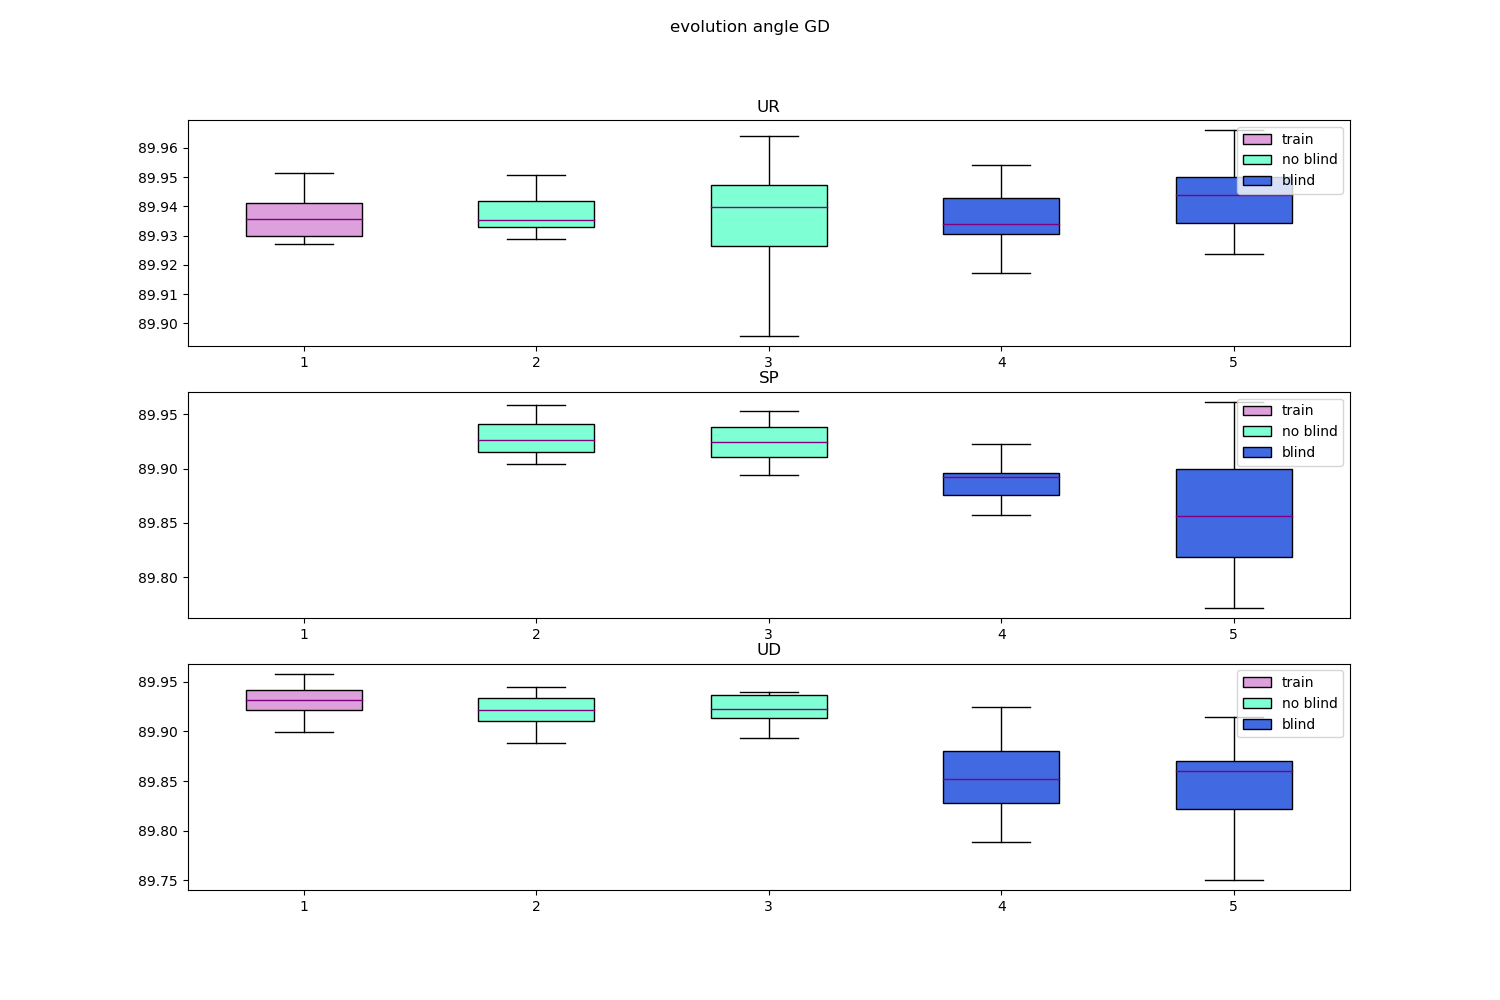
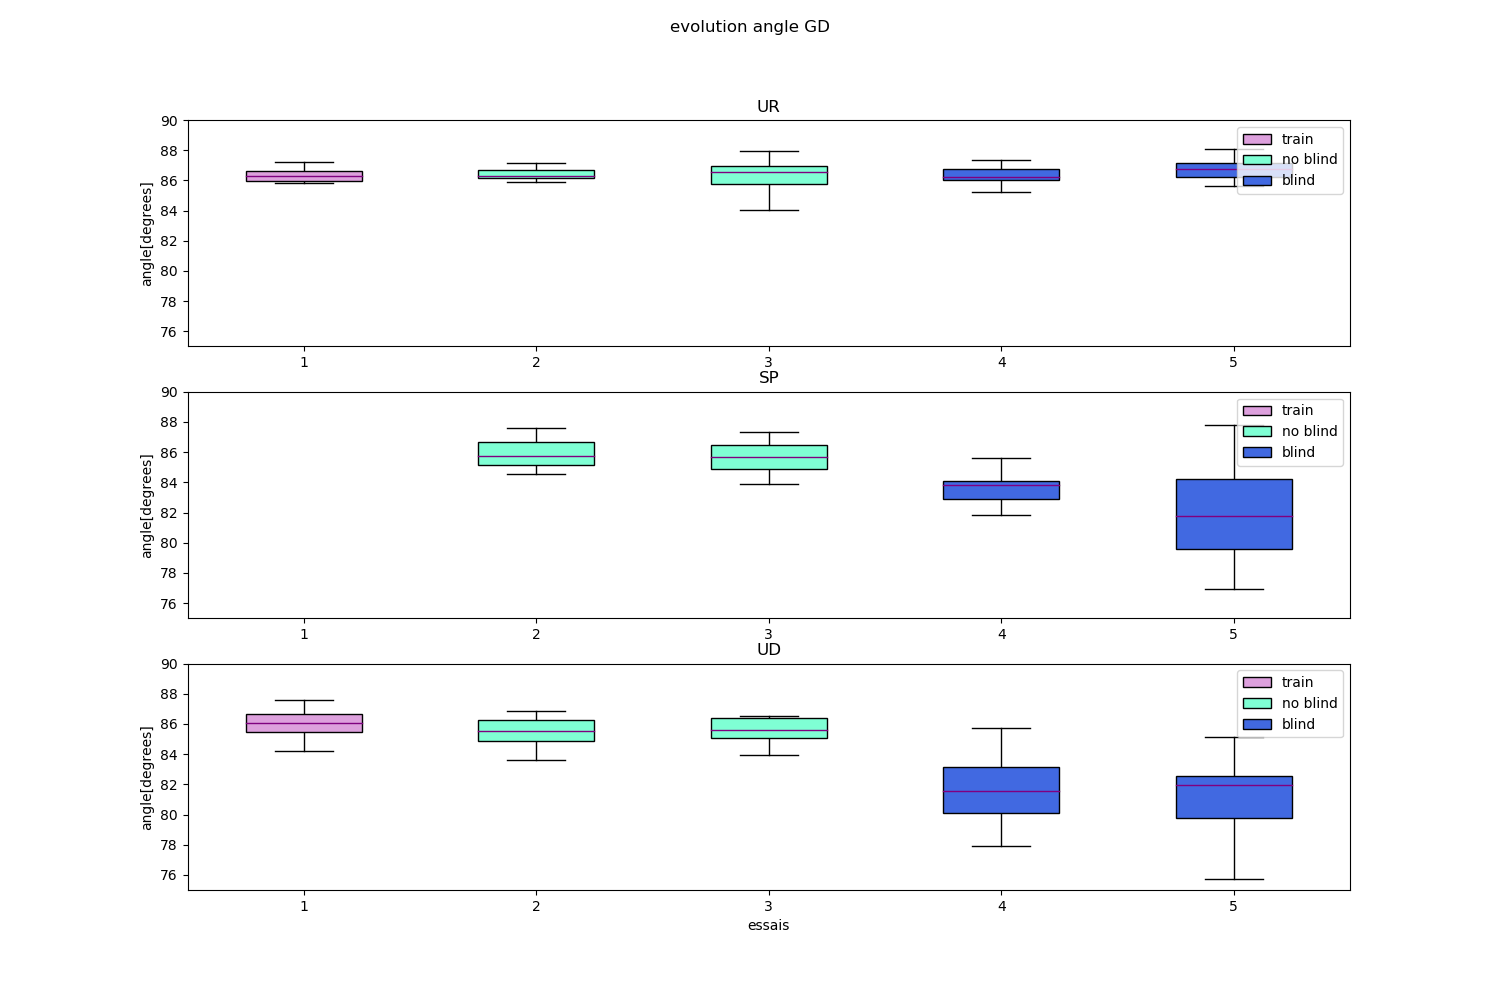
update code

diff --git a/codepython/Angle/evolution_angle.py b/codepython/Angle/evolution_angle.py
@@ -46,7 +46,7 @@ for name in names:
                         pos[0][cycle_starts[k]:cycle_ends[k]])))
                     ecarty=(abs(np.nanmax(pos[1][cycle_starts[k]:cycle_ends[k]]) - np.nanmin(
                         pos[1][cycle_starts[k]:cycle_ends[k]])))
-                    angle.append(90-np.arctan(ecarty/ecartx))
+                    angle.append(90-np.degrees(np.arctan(ecarty/ecartx)))
 
                 box.append(angle)
         boxplot=ax.boxplot(box, notch=False,vert=True,medianprops={'color':'purple'}, patch_artist=True, showfliers=False)
@@ -54,5 +54,9 @@ for name in names:
             patch.set_facecolor(color)
         ax.legend([boxplot["boxes"][0],boxplot["boxes"][1],boxplot["boxes"][3]], ['train', 'no blind','blind'], loc='upper right')
         ax.set_title("%s"%p)
+        ax.set_ylabel('angle[degrees]')
+        ax.set_ylim(75,90)
+        if p=='UD':
+            ax.set_xlabel('essais')
     fig.suptitle("evolution angle %s" % name)
     plt.savefig("box_angle_for_%s.png" % name)

diff --git a/codepython/Amplitude en X/moustache_diff_x.py b/codepython/Amplitude en X/moustache_diff_x.py
@@ -50,6 +50,10 @@ for name in names:
             patch.set_facecolor(color)
         ax.legend([boxplot["boxes"][0],boxplot["boxes"][1],boxplot["boxes"][3]], ['train', 'no blind','blind'], loc='upper right')
         ax.set_title("%s"%p)
+        ax.set_ylim(0.24,0.55)
+        ax.set_ylabel("Amplitude mvt [m]")
+        if p=='UD':
+            ax.set_xlabel('essais')
         for i in ntrials:
             index=i*np.ones(len(box[i-1]))
             ax.scatter(index,box[i-1],alpha=0.6,color=colors[i-1])
